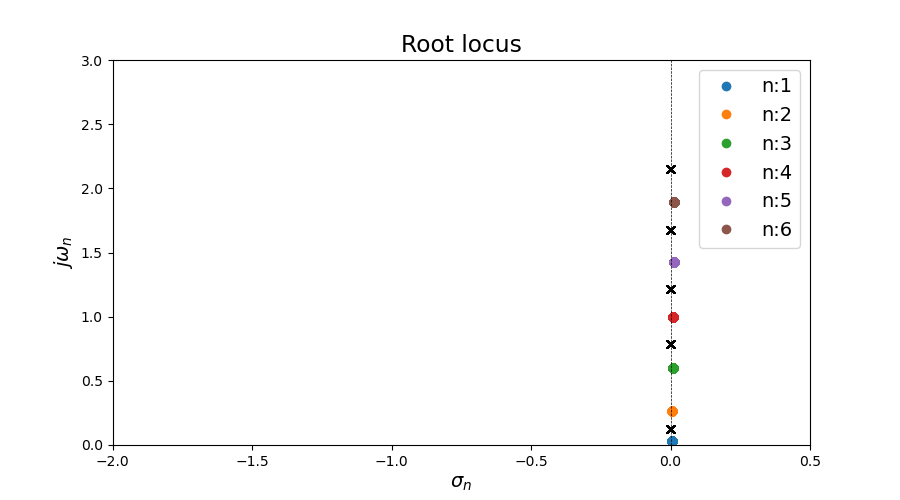
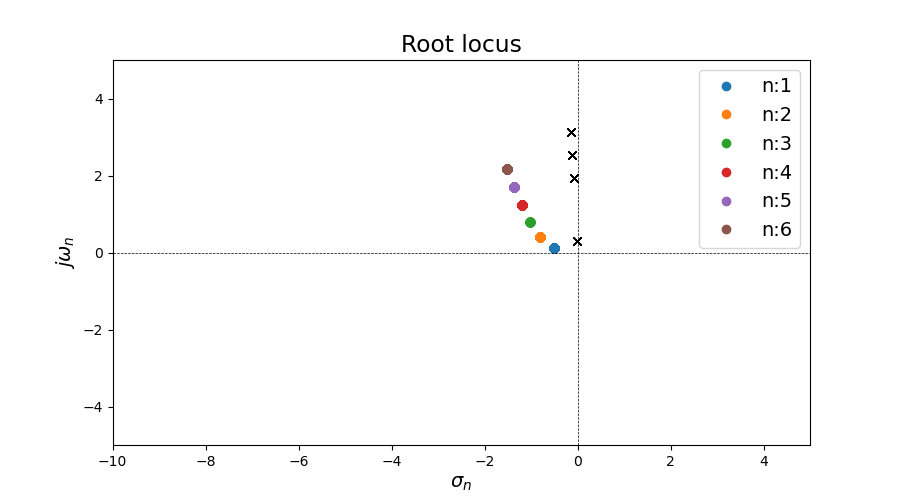
update

diff --git a/Spakozvski_model_II/rotor_stator_poles.py b/Spakozvski_model_II/rotor_stator_poles.py
@@ -28,88 +28,99 @@ path = "pics"
 isExist = os.path.exists(path)
 if not isExist:
    os.makedirs(path)
+DELTAX = np.linspace(0.01, 1.5, 10)
+ 
+for hh in DELTAX:   
+    #%%INPUT DATA
+    Vx1 = 0.34 #non dimensional background axial flow velocity at inlet
+    Vy1 = 0 #non dimensional background azimuthal flow velocity at outlet
+    DeltaX = hh #gap between rotor and stator
+    
+    #rotor parameters (pag. 147)
+    beta1 = -71.1*np.pi/180 #relative inlet swirl
+    alfa1 = 0*np.pi/180 #absolute inlet swirl
+    beta2 = -35*np.pi/180 #relative outlet swirl
+    alfa2 = 65.7*np.pi/180 #absolute outlet swirl
+    dLr_dPhi = -0.6938 #steady state rotor loss derivative at background condition
+    dLr_dTanb = dLr_dPhi/((np.tan(alfa1)-np.tan(beta1))**2) #steady state rotor loss derivative at background condition
+    c_r = 0.135 #blade chord
+    gamma_r = -50.2*np.pi/180 #stagger angle rotor blades
+    lambda_r = 0.212 #inertia parameter rotor
+    
+    #stator parameters (pag. 147)
+    beta3 = -35*np.pi/180 #relative inlet swirl
+    alfa3 = 65.7*np.pi/180 #absolute inlet swirl
+    beta4 = -71.1*np.pi/180 #relative outlet swirl
+    alfa4 = 0.0*np.pi/180 #absolute outlet swirl
+    dLs_dTana = 0.0411 #steady state stator loss at inlet condition of the stator
+    c_s = 0.121 #blade chord
+    gamma_s = 61.8*np.pi/180 #stagger angle rotor blades
+    lambda_s = 0.256 #inertia parameter rotor
+    
+    #axial cordinates
+    x1 = 0
+    x2 = c_r*np.cos(gamma_r)
+    x3 = DeltaX
+    x4 = x3 + c_s*np.cos(gamma_s)
+    
+    #velocities across the stages
+    Vx2 = Vx1
+    Vy2 = Vx2*np.tan(alfa2)
+    Vx3 = Vx1
+    Vy3 = Vy2
+    Vx4 = Vx1
+    Vy4 = 0
+    
+    #%% compute the results for each harmonic
+    
+    #system function
+    def rotor_stator(s, n, theta=0):
+        m1 = np.linalg.inv(Tax_n(x4, s, n, Vx4, Vy4, theta=theta))
+        m2 = Bsta_n(s, n, Vx3, Vy3, Vy4, alfa3, alfa4, lambda_s, dLs_dTana, theta=theta)
+        m3 = Bgap_n(x2, x3, s, n, Vx2, Vy2, theta=theta)
+        m4 = Brot_n(s, n, Vx1, Vy1, Vy2, alfa1, beta1, beta2, lambda_r, dLr_dTanb, theta=theta)
+        m5 = Tax_n(x1, s, n, Vx1, Vy1, theta=theta)
+        m6 = np.linalg.multi_dot([m1,m2,m3,m4,m5])
+        EC = np.array([[1,0,0]])
+        IC = np.array([[0,1,0],
+                        [0,0,1]])
+        Y = np.concatenate((np.matmul(EC,m6),IC))
+        return np.linalg.det(Y)
+    
+    domain = [-2.5,0.5,-0.5,4.5]
+    grid = [1,1]
+    n=np.arange(1,7)
+    plt.figure(figsize=format_fig)
+    poles_fneri = {}
+    for nn in n:
+        poles = Shot_Gun(rotor_stator,domain, grid, n=nn)
+        poles_fneri[nn] = poles
+        plt.plot(poles.real,-poles.imag,'o', label='n '+str(nn))
+    real_axis_x = np.linspace(domain[0],domain[1],100)
+    real_axis_y = np.zeros(len(real_axis_x))   
+    imag_axis_y = np.linspace(domain[2],domain[3],100)
+    imag_axis_x = np.zeros(len(imag_axis_y))
+    plt.plot(real_axis_x,real_axis_y,'--k', linewidth=0.5)
+    plt.plot(imag_axis_x,imag_axis_y,'--k', linewidth = 0.5)
+    plt.xlim([domain[0],domain[1]])
+    plt.ylim([domain[2],domain[3]])
+    plt.legend()
+    plt.xlabel(r'$\sigma_{n}$')
+    plt.ylabel(r'$j \omega_{n}$')
+    plt.title('Root locus')
+    plt.savefig(path+'/poles_rotor_stator_deltax_'+str(hh)+'.png')
 
-#%%INPUT DATA
-Vx1 = 0.34 #non dimensional background axial flow velocity at inlet
-Vy1 = 0 #non dimensional background azimuthal flow velocity at outlet
-DeltaX = 0.3 #gap between rotor and stator
 
-#rotor parameters (pag. 147)
-beta1 = -71.1*np.pi/180 #relative inlet swirl
-alfa1 = 0*np.pi/180 #absolute inlet swirl
-beta2 = -35*np.pi/180 #relative outlet swirl
-alfa2 = 65.7*np.pi/180 #absolute outlet swirl
-dLr_dPhi = -0.6938 #steady state rotor loss derivative at background condition
-dLr_dTanb = dLr_dPhi/((np.tan(alfa1)-np.tan(beta1))**2) #steady state rotor loss derivative at background condition
-c_r = 0.135 #blade chord
-gamma_r = -50.2*np.pi/180 #stagger angle rotor blades
-lambda_r = 0.212 #inertia parameter rotor
-
-#stator parameters (pag. 147)
-beta3 = -35*np.pi/180 #relative inlet swirl
-alfa3 = 65.7*np.pi/180 #absolute inlet swirl
-beta4 = -71.1*np.pi/180 #relative outlet swirl
-alfa4 = 0.0*np.pi/180 #absolute outlet swirl
-dLs_dTana = 0.0411 #steady state stator loss at inlet condition of the stator
-c_s = 0.121 #blade chord
-gamma_s = 61.8*np.pi/180 #stagger angle rotor blades
-lambda_s = 0.256 #inertia parameter rotor
-
-#axial cordinates
-x1 = 0
-x2 = c_r*np.cos(gamma_r)
-x3 = DeltaX
-x4 = x3 + c_s*np.cos(gamma_s)
-
-#velocities across the stages
-Vx2 = Vx1
-Vy2 = Vx2*np.tan(alfa2)
-Vx3 = Vx1
-Vy3 = Vy2
-Vx4 = Vx1
-Vy4 = 0
-
-#%% compute the results for each harmonic
-
-#system function
-def rotor_stator(s, n, theta=0):
-    m1 = np.linalg.inv(Tax_n(x4, s, n, Vx4, Vy4, theta=theta))
-    m2 = Bsta_n(s, n, Vx3, Vy3, Vy4, alfa3, alfa4, lambda_s, dLs_dTana, theta=theta)
-    m3 = Bgap_n(x2, x3, s, n, Vx2, Vy2, theta=theta)
-    m4 = Brot_n(s, n, Vx1, Vy1, Vy2, alfa1, beta1, beta2, lambda_r, dLr_dTanb, theta=theta)
-    m5 = Tax_n(x1, s, n, Vx1, Vy1, theta=theta)
-    m6 = np.linalg.multi_dot([m1,m2,m3,m4,m5])
-    EC = np.array([[1,0,0]])
-    IC = np.array([[0,1,0],
-                    [0,0,1]])
-    Y = np.concatenate((np.matmul(EC,m6),IC))
-    return np.linalg.det(Y)
-
-domain = [-2.5,0.5,-0.5,4.5]
-grid = [3,3]
-n=np.arange(1,7)
-plt.figure(figsize=format_fig)
+#compare the errors of the poler on the rotor stator matrix
+err_fneri = {} #dictionary for the poles found with shot-gun method
 for nn in n:
-    poles = Shot_Gun(rotor_stator,domain, grid, n=nn)
-    plt.plot(poles.real,-poles.imag,'o', label='n '+str(nn))
-real_axis_x = np.linspace(domain[0],domain[1],100)
-real_axis_y = np.zeros(len(real_axis_x))   
-imag_axis_y = np.linspace(domain[2],domain[3],100)
-imag_axis_x = np.zeros(len(imag_axis_y))
-plt.plot(real_axis_x,real_axis_y,'--k', linewidth=0.5)
-plt.plot(imag_axis_x,imag_axis_y,'--k', linewidth = 0.5)
-plt.xlim([domain[0],domain[1]])
-plt.ylim([domain[2],domain[3]])
-plt.legend()
-plt.xlabel(r'$\sigma_{n}$')
-plt.ylabel(r'$j \omega_{n}$')
-plt.title('Root locus')
-plt.savefig(path+'/poles_rotor_stator.png')
+    dum1 = 0
+    for kk in range(0,len(poles_fneri[nn])-1):
+        dum1 = dum1 + np.abs(rotor_stator(poles_fneri[nn][kk], nn))
+    err_fneri[nn] = dum1/(len(poles_fneri[nn])+1) #1 is needed in order to avoid divide by zero
 
-
-
-
-
+#print the errors of the found poles
+print(err_fneri)
 
 
 

diff --git a/Spakozvski_model_II/jet_wake_perturbations.py b/Spakozvski_model_II/jet_wake_perturbations.py
@@ -15,9 +15,9 @@ from functions import *
 # Preamble: customization of matplotlib
 # Configuration for plots
 plt.rc('text', usetex=False)      
-plt.rc('xtick',labelsize=10)
-plt.rc('ytick',labelsize=10)
-plt.rcParams['font.size'] = 14
+plt.rc('xtick',labelsize=8)
+plt.rc('ytick',labelsize=8)
+plt.rcParams['font.size'] = 10
 format_fig = (10,8)
 
 #%%DATA INPUT OF THE EXERCISE
@@ -26,21 +26,22 @@ R3 = 1.5 #outlet radius
 Nbl = 20 #number of blades
 Q = 0.215 #source term
 GAMMA = 0.7032 #circulation term
+# GAMMA = 0 #circulation term
 theta_max = 2*np.pi/Nbl #period of the perturbation
 azimuthal_sampling_points = 100 #number of points along the period
 theta = np.linspace(0,theta_max,azimuthal_sampling_points) #theta domain
 theta_deg = theta *180/np.pi #theta domain in degrees
-n = 20 #interested in the 20th harmonic, since we are looking at perturbation coming from the 20th harmonics
+n = Nbl #interested in the 20th harmonic, since we are looking at perturbation coming from the 20th harmonics
 theta0 = theta[0]
-omega = -n
+omega = -Nbl 
 
 #INITIAL CONDITIONS
 Wr_2 = np.exp(1j*n*theta0)
 Wt_2 = np.exp(1j*n*theta0)*(GAMMA-1)/Q
 
 #radial position where we want the data
-# radii = np.array([R2, 1.1, 1.2, 1.3, 1.4, 1.5])
-radii = np.array([R2,1.1, 1.2, 1.3, 1.4, R3])
+# radii = np.array([R2,1.1, 1.2, 1.3, 1.4, R3])
+radii = np.array([R2,1.05, 1.1, 1.15, 1.2])
 
 r0 = R2 #this is the big problem. no reason for it. there is no way to understand what is its meaning
 #boundary conditions are prescribed inlet velocities, and outlet pressure at R3 = 0
@@ -83,7 +84,7 @@ for k in range(0,len(radii)):
 fig.legend()
 
 #%% VARIATIONS WITH RADIUS
-radii = np.linspace(R2,1.6,500)
+radii = np.linspace(R2,1.25,500)
 fig, axes = plt.subplots(3,1, figsize=format_fig)
 axes[0].set_ylabel(r'$\delta w_{r}$')
 axes[1].set_ylabel(r'$\delta w_{\theta}$')
@@ -92,9 +93,36 @@ axes[2].set_xlabel(r'$r $')
 vec_rad = np.zeros((3,len(radii)),dtype=complex)
 for k in range(0,len(radii)):
     vec_rad[:,k] = np.matmul(Trad_n(radii[k], r0 , n, 1j*omega, Q, GAMMA),DEN_mode).reshape(3)
-axes[0].plot(radii, np.abs(vec_rad[0,:]))
-axes[1].plot(radii, np.abs(vec_rad[1,:]))
-axes[2].plot(radii, np.abs(vec_rad[2,:]))
+axes[0].plot(radii, vec_rad[0,:].real)
+axes[0].plot(radii, vec_rad[0,:].imag)
+axes[1].plot(radii, vec_rad[1,:].real)
+axes[1].plot(radii, vec_rad[1,:].imag)
+axes[2].plot(radii, vec_rad[2,:].real)
+axes[2].plot(radii, vec_rad[2,:].imag)
+
+#plot of the phasors of the perturbation
+fig, axes = plt.subplots(1,3, figsize=(18,6))
+fig.suptitle('Perturbation Phasors')
+axes[0].set_title(r'$\dot{\delta W_r}$')
+axes[0].set_xlabel('Real')
+axes[0].set_ylabel('Im')
+axes[1].set_title(r'$\dot{\delta W_{\theta}}$')
+axes[1].set_xlabel('Real')
+axes[1].set_ylabel('Im')
+axes[2].set_title(r'$\dot{\delta p}$')
+axes[2].set_ylabel('Im')
+axes[2].set_xlabel('Real')
+axes[0].plot(vec_rad[0,:].real, vec_rad[0,:].imag)
+axes[0].plot(vec_rad[0,0].real, vec_rad[0,0].imag, 'ko')
+axes[0].plot(0,0,'kx')
+axes[1].plot(vec_rad[1,:].real, vec_rad[1,:].imag)
+axes[1].plot(vec_rad[1,0].real, vec_rad[1,0].imag, 'ko')
+axes[1].plot(0,0,'kx')
+axes[2].plot(vec_rad[2,:].real, vec_rad[2,:].imag)
+axes[2].plot(vec_rad[2,0].real, vec_rad[2,0].imag, 'ko')
+axes[2].plot(0,0,'kx')
+
+
 
 Wr_mag = np.abs(vec_rad[0,:])/np.abs(vec_rad[0,0])
 Wt_mag = np.abs(vec_rad[1,:])/np.abs(vec_rad[1,0])

diff --git a/Spakozvski_model_II/rotor_stator_zero_gap.py b/Spakozvski_model_II/rotor_stator_zero_gap.py
@@ -32,9 +32,9 @@ if not isExist:
    os.makedirs(path)
 
 #%%INPUT DATA for the implementation of the generic actuator disk of Greitzer, zero gap
-Vx1 = 0.34 #non dimensional background axial flow velocity at inlet
+Vx1 = 1 #non dimensional background axial flow velocity at inlet
 Vy1 = 0 #non dimensional background azimuthal flow velocity at outlet
-Deltax = 0
+DeltaX = 0
 
 #from the inertia parameters we need to go back to axial spacing in order to recostruct the matrix
 
@@ -64,7 +64,7 @@ lambda_s = c_s/np.cos(gamma_s) #inertia parameter stator
 #axial cordinates
 x1 = 0
 x2 = c_r*np.cos(gamma_r)
-x3 = x2
+x3 = x2 + DeltaX
 x4 = x3 + c_s*np.cos(gamma_s)
 
 #velocities across the stages
@@ -76,9 +76,9 @@ Vx4 = Vx1
 Vy4 = 0
 
 #%% compute the results for each harmonic
-LAMBDA = lambda_r #inertia parameter of the rotor row only
-MU = lambda_r+lambda_s #inertia parameter of rotor+stator rows
-tau_u = 0 #from thesis
+LAMBDA = 1.08 #inertia parameter of the rotor row only
+MU = 1.788 #inertia parameter of rotor+stator rows
+tau_u = 1 #from thesis
 tau_s = tau_u*c_s/(np.cos(gamma_s)*Vx1)
 tau_r = tau_u*c_r/(np.cos(gamma_r)*Vx1)
 
@@ -99,15 +99,19 @@ def rotor_stator(s, n, theta=0):
 def rotor_stator_benchmark(s, n, theta=0):
     return (MU+2/n)*s-dLr_dPhi*(1-1/(1+tau_r*(s+1j*n)))-dLs_dphi*(1-1/(1+tau_s*s))+LAMBDA*1j*n
 
-domain = [-2.0,0.5,0.0,3.0]
-# domain = [-5.0,5,-5,5]
+# domain = [-2.0,0.5,0.0,3.0]
+domain = [-10,5,-5,5]
 
 grid = [1,1]
 n=np.arange(1,7)
 plt.figure(figsize=format_fig)
+poles_fneri = {}
+poles_spak = {}
 for nn in n:
     poles = Shot_Gun(rotor_stator, domain, grid, n=nn, attempts=10, tol=1e-6)
+    poles_fneri[nn] = poles
     poles_bmk = Shot_Gun(rotor_stator_benchmark,domain, grid, n=nn, attempts=10, tol=1e-6)
+    poles_spak[nn] = poles_bmk
     plt.plot(poles.real,-poles.imag,'o', label='n:'+str(nn))
     plt.plot(poles_bmk.real,-poles_bmk.imag,'kx')
 real_axis_x = np.linspace(domain[0],domain[1],100)
@@ -125,8 +129,19 @@ plt.title('Root locus')
 plt.savefig(path+'/poles_rotor_stator_lag.png')
 
 
-
-
+#compare the errors of the poler on the rotor stator matrix
+err_fneri = {} #dictionary for the poles found with shot-gun method
+err_spak = {} #dictionary for the poles found by analytical function
+for nn in n:
+    dum1 = 0
+    dum2 = 0
+    for kk in range(0,len(poles_fneri[nn])-1):
+        dum1 = dum1 + np.abs(rotor_stator(poles_fneri[nn][kk], nn))
+    for kk in range(0,len(poles_spak[nn])-1):
+        dum2 = dum2 + np.abs(rotor_stator(poles_spak[nn][kk], nn))
+    
+    err_fneri[nn] = dum1/(len(poles_fneri[nn])+1) #1 is needed in order to avoid divide by zero
+    err_spak[nn] = dum2/(len(poles_spak[nn])+1)
 
 
 
